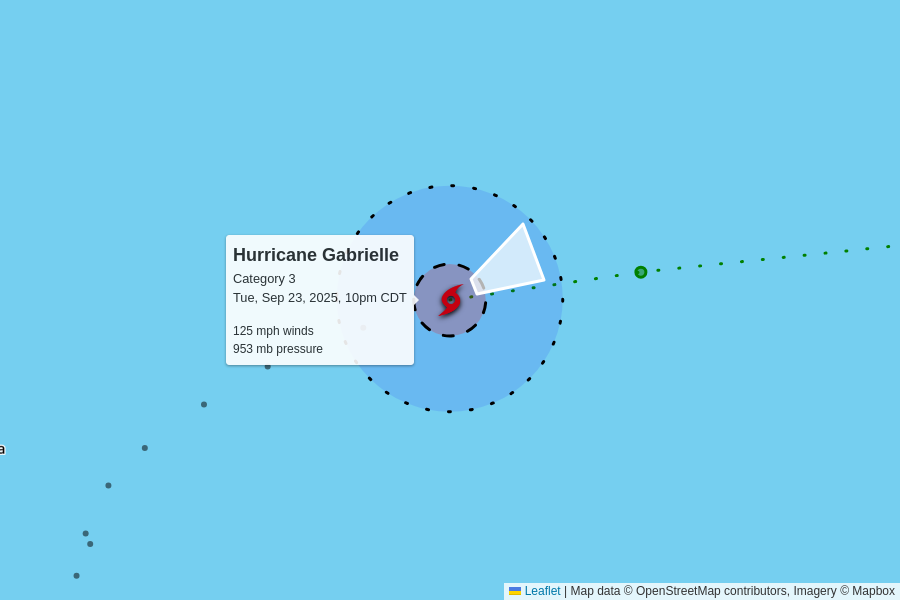
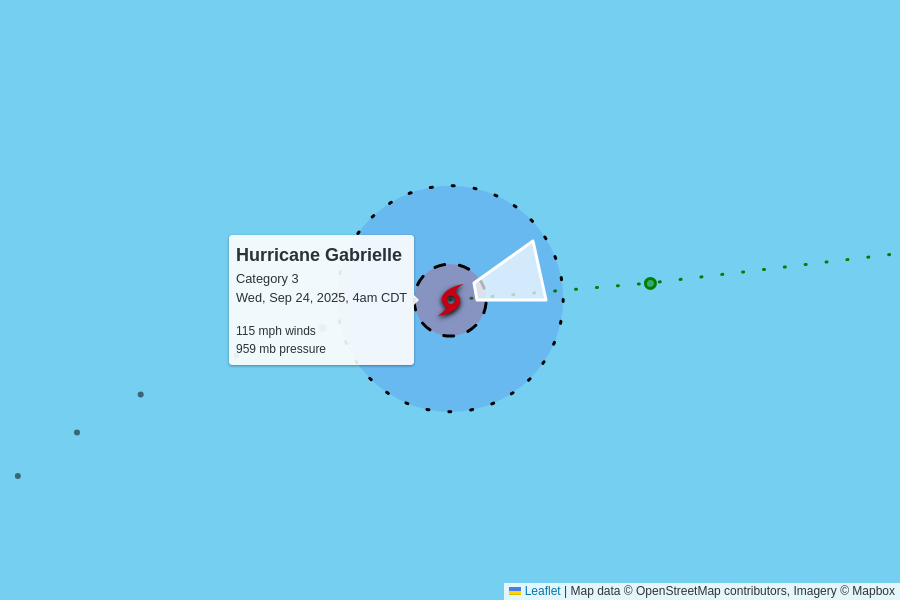
automatic update

Changed region(s): [[0.2489, 0.39, 0.4667, 0.6], [0.4978, 0.36, 0.6222, 0.51], [0.6844, 0.45, 0.7467, 0.48]]

diff --git a/docs/index.html b/docs/index.html
@@ -102,7 +102,7 @@
         <td colspan="6" class="storm category-3" >
           <h2>
             Hurricane Gabrielle - Category 3
-            <p class="updated">last updated <span data-time>2025-09-24T03:00:00.000Z</span></p>
+            <p class="updated">last updated <span data-time>2025-09-24T09:00:00.000Z</span></p>
           </h2>
         </td>
       </tr>
@@ -117,12 +117,12 @@
       </tr>
       <tr>
         <td class="spacer"></td>
-        <td>125 mph<br>-5 mph since last update</td>
-        <td>953 mb<br>+1 mb since last update</td>
+        <td>115 mph<br>-10 mph since last update</td>
+        <td>959 mb<br>+6 mb since last update</td>
         <td>
-          22 mph to the east-northeast
+          25 mph to the east-northeast
           <br/>
-          <span style="display: inline-block; font-size: 1.5em; transform: rotate(65deg);">↑</span>
+          <span style="display: inline-block; font-size: 1.5em; transform: rotate(75deg);">↑</span>
         </td>
         <td><a href="https://raw.githubusercontent.com/mgwalker/atlantic-hurricanes/main/data/csv/AL072025.csv">AL072025.csv</a></td>
         <td><a href="https://www.nhc.noaa.gov/archive/2025/GABRIELLE.shtml?">NHC advisories</a></td>
